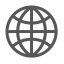
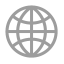
ウェブボタンをつけて、参照モードを変更できるようにした。

diff --git a/main.js b/main.js
@@ -20,8 +20,6 @@ let promptTemplate = [
 
 let pastPrompt = [];
 
-
-
 // Create a renderer with a custom link function
 const renderer = new marked.Renderer();
 renderer.link = function (href, title, text) {
@@ -233,7 +231,6 @@ ipcMain.on('chat-message', async (event, arg) => {
     }
 });
 
-
 // マニュアルページを表示する。
 function showManual() {
     const readme = fs.readFileSync(join(__dirname, 'README.md'), 'utf8');
@@ -244,17 +241,40 @@ ipcMain.on('clip-response', async (event, arg) => {
     event.reply('clip-response', arg);
 });
 
-ipcMain.on('save-settings', async (event, arg) => {
+ipcMain.on('use-web', async (event, arg) => {
+    let params = {};
+    // initializer.envParamsの要素に一致する値をenvから取得する。
+    for (let key of Object.keys(initializer.envParams)) {
+        params[key] = process.env[key];
+    }
+    if (arg === 'selected') {
+        params[initializer.envParams.USE_SEARCH_RESULT] = 'true';
+        params[initializer.envParams.GEMINI_TEMPERATURE] = '0.3';
+    } else {
+        params[initializer.envParams.USE_SEARCH_RESULT] = 'false';
+        params[initializer.envParams.GEMINI_TEMPERATURE] = '0.1';
+    }
+    saveSettings(params);
+});
+
+function saveSettings(params) {
     let writeData = '';
-    for (const key in arg) {
-        process.env[key] = arg[key];
-        writeData += `${key} = ${arg[key]}\n`;
+    for (const key in params) {
+        process.env[key] = params[key];
+        let paramLine = `${key} = ${params[key]}`;
+        console.log(paramLine);
+        writeData += `${paramLine}\n`;
     }
     fs.writeFileSync('.env', writeData, 'utf8');
     dotenv.config();
+}
+
+ipcMain.on('save-settings', async (event, arg) => {
+    saveSettings(arg);
     event.reply('settings-saved', '保存しました.');
     // リブートする。
     app.relaunch();
+    app.quit();
 });
 
 ipcMain.on('talk-history-clicked', async (event, arg) => {

diff --git a/initializer.js b/initializer.js
@@ -6,6 +6,25 @@ const path = require('path');
 const file_utils = require('./file_utils.js');
 const database = require('./database.js');
 
+const envParams = {
+    USER_ORGAN: 'USER_ORGAN',
+    USER_NAME: 'USER_NAME',
+    GEMINI_API_KEY: 'GEMINI_API_KEY',
+    GEMINI_MODEL: 'GEMINI_MODEL',
+    GEMINI_TEMPERATURE: 'GEMINI_TEMPERATURE',
+    GEMINI_MAX_OUTPUT_TOKENS: 'GEMINI_MAX_OUTPUT_TOKENS',
+    GEMINI_TOP_P: 'GEMINI_TOP_P',
+    GEMINI_TOP_K: 'GEMINI_TOP_K',
+    USE_SEARCH_RESULT: 'USE_SEARCH_RESULT',
+    GOOGLE_API_KEY: 'GOOGLE_API_KEY',
+    GOOGLE_CSE_ID : 'GOOGLE_CSE_ID',
+    DEV_CONSOLE_MODE : 'DEV_CONSOLE_MODE',
+    HISTORY_DIR : 'HISTORY_DIR',
+    HISTORY_LIMIT : 'HISTORY_LIMIT',
+    DARK_MODE : 'DARK_MODE',
+    PERSONALITY : 'PERSONALITY'
+};
+
 /**
  * 環境変数を初期化する。
  */
@@ -99,5 +118,6 @@ module.exports = {
     initDirectories,
     initDatabase,
     initMenus,
-    initializePersonality
+    initializePersonality,
+    envParams
 };

diff --git a/css/style.css b/css/style.css
@@ -291,6 +291,33 @@ div[component='historyPanel'] {
 	overflow:hidden;
 }
 
+.button-use-web{
+    display: inline-block;
+    width: 24px;
+    height: 100%;
+    font-size: 0.9em;
+    vertical-align: top;
+    background-repeat: no-repeat;
+    background-position: center;
+    background-size: contain;
+    cursor: pointer;
+    border: none;
+    background-color: var(--background-default);
+    text-indent:100%;
+    white-space:nowrap;
+    overflow:hidden;
+
+}
+
+.button-use-web[status="selected"]{
+    background-image: url('../assets/web.png');
+}
+
+.button-use-web[status="unselected"]{
+    background-image: url('../assets/web_gray.png');
+}
+
+
 #query-title {
     border-radius: 20px;
 }
